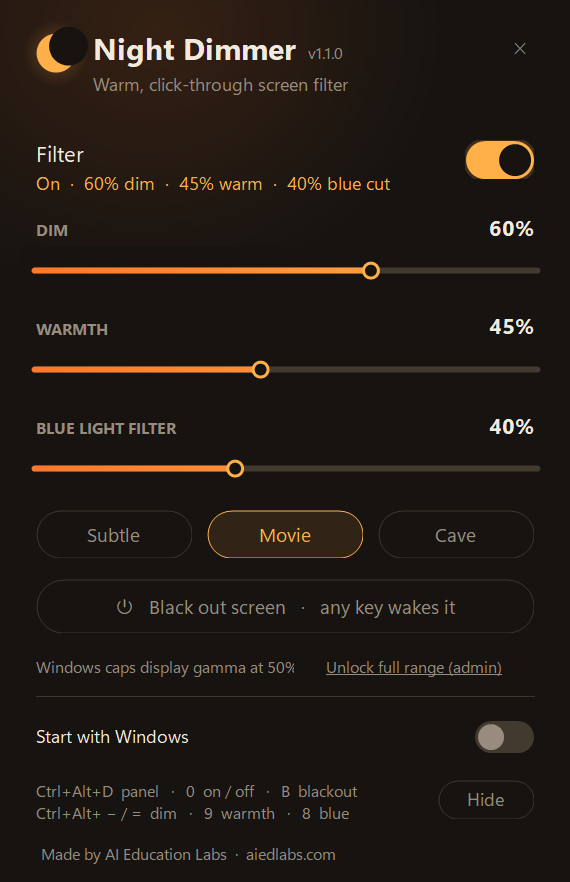
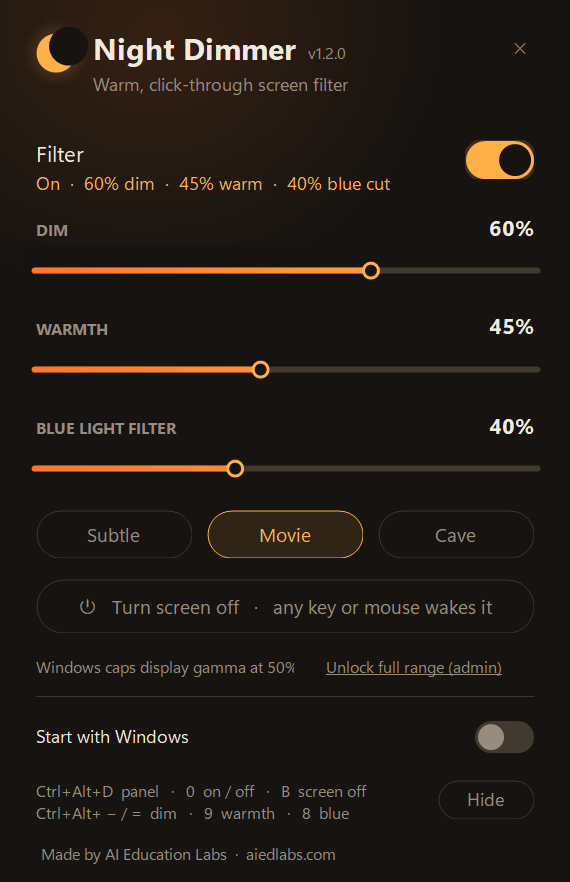
1.2.0: Screen off powers the monitors down (DPMS), any key or mouse wakes
Blackout now sends SC_MONITORPOWER off after the overlay goes black, and
explicitly powers the monitors back on when woken. Adds a low-level mouse
hook so mouse movement lifts the overlay in step with Windows waking the
display; key and mouse-button wakes are swallowed.

Changed region(s): [[0.1491, 0.6735, 0.8649, 0.7041], [0.507, 0.8878, 0.6561, 0.9184], [0.5667, 0.0306, 0.5965, 0.0918]]

diff --git a/NightDimmer.cs b/NightDimmer.cs
@@ -7,7 +7,7 @@
 // ships with Windows.
 //
 // Build:   powershell -ExecutionPolicy Bypass -File build.ps1
-// Hotkeys: Ctrl+Alt+D  panel     Ctrl+Alt+0  on/off     Ctrl+Alt+-/=  darker/brighter   Ctrl+Alt+B  blackout
+// Hotkeys: Ctrl+Alt+D  panel     Ctrl+Alt+0  on/off     Ctrl+Alt+-/=  darker/brighter   Ctrl+Alt+B  screen off
 //          Ctrl+Alt+9  warmth    Ctrl+Alt+8  blue cut   (alternates: PgDn/PgUp/End/Home)
 // CLI:     NightDimmer.exe [--dim N] [--warmth N] [--blue N] [--blackout] [--on] [--off] [--toggle] [--panel] [--exit]
 //          If an instance is already running the command is forwarded to it.
@@ -26,14 +26,14 @@ using Microsoft.Win32;
 [assembly: System.Reflection.AssemblyDescription("Dim and warm your screen for night viewing")]
 [assembly: System.Reflection.AssemblyCompany("AI Education Labs")]
 [assembly: System.Reflection.AssemblyCopyright("Copyright © 2026 AI Education Labs. MIT License.")]
-[assembly: System.Reflection.AssemblyVersion("1.1.0.0")]
-[assembly: System.Reflection.AssemblyFileVersion("1.1.0.0")]
+[assembly: System.Reflection.AssemblyVersion("1.2.0.0")]
+[assembly: System.Reflection.AssemblyFileVersion("1.2.0.0")]
 
 namespace NightDimmer
 {
     static class About
     {
-        public const string Version = "1.1.0";
+        public const string Version = "1.2.0";
         public const string Company = "AI Education Labs";
         public const string Site = "https://aiedlabs.com";
         public const string Repo = "https://github.com/AI-Education-Labs/night-dimmer";
@@ -55,6 +55,7 @@ namespace NightDimmer
         public const int WM_NCLBUTTONDOWN = 0x00A1;
         public const int HTCAPTION = 2;
         public const int WM_APP_CMD = 0x8000 + 1;
+        public const int WM_SYSCOMMAND = 0x0112, SC_MONITORPOWER = 0xF170;
         public const uint MOD_ALT = 0x0001, MOD_CONTROL = 0x0002;
         public const string CTL_TITLE = "NightDimmerCtl";
 
@@ -87,42 +88,60 @@ namespace NightDimmer
     // Commands accepted from the command line / a second instance.
     enum Cmd { Dim = 1, Warmth = 2, Toggle = 3, On = 4, Off = 5, Panel = 6, Exit = 7, Blue = 8, Blackout = 9 }
 
-    // Low-level keyboard hook used only while the screen is blacked out: the first key press
-    // ends the blackout and is swallowed (so e.g. Space doesn't also unpause a video).
-    class KeyWatch : IDisposable
+    // Low-level keyboard + mouse hooks, installed only while the screen is off. The first key
+    // press wakes and is swallowed (so Space doesn't also unpause a video); mouse buttons wake and
+    // are swallowed; mouse movement wakes after a short grace period (Windows itself wakes the
+    // monitor on movement, so the overlay must lift at the same moment).
+    class InputWatch : IDisposable
     {
         delegate IntPtr HookProc(int nCode, IntPtr wParam, IntPtr lParam);
         [DllImport("user32.dll", SetLastError = true)] static extern IntPtr SetWindowsHookEx(int id, HookProc fn, IntPtr hMod, uint tid);
         [DllImport("user32.dll")] static extern bool UnhookWindowsHookEx(IntPtr h);
         [DllImport("user32.dll")] static extern IntPtr CallNextHookEx(IntPtr h, int nCode, IntPtr w, IntPtr l);
         [DllImport("kernel32.dll", CharSet = CharSet.Unicode)] static extern IntPtr GetModuleHandle(string name);
-        const int WH_KEYBOARD_LL = 13, WM_KEYDOWN = 0x100, WM_KEYUP = 0x101, WM_SYSKEYDOWN = 0x104, WM_SYSKEYUP = 0x105;
+        const int WH_KEYBOARD_LL = 13, WH_MOUSE_LL = 14;
+        const int WM_KEYDOWN = 0x100, WM_KEYUP = 0x101, WM_SYSKEYDOWN = 0x104, WM_SYSKEYUP = 0x105;
+        const int WM_MOUSEMOVE = 0x200, WM_LBUTTONDOWN = 0x201, WM_RBUTTONDOWN = 0x204, WM_MBUTTONDOWN = 0x207, WM_XBUTTONDOWN = 0x20B, WM_MOUSEWHEEL = 0x20A;
 
-        readonly HookProc proc; // kept alive: the delegate must not be collected while hooked
-        IntPtr hook;
+        readonly HookProc kbProc, msProc; // kept alive: delegates must not be collected while hooked
+        IntPtr kb, ms;
         bool armed;
         int swallowUpVk = -1;
-        public event Action KeyPressed;
+        DateTime moveArmAt;
+        int lastX = int.MinValue, lastY;
+        public event Action Woken;
 
-        public KeyWatch() { proc = Callback; }
+        public InputWatch() { kbProc = KbCallback; msProc = MsCallback; }
 
-        public bool Start()
+        public bool Start(int mouseGraceMs)
         {
             armed = true;
             swallowUpVk = -1;
-            if (hook != IntPtr.Zero) return true;
-            hook = SetWindowsHookEx(WH_KEYBOARD_LL, proc, GetModuleHandle(null), 0);
-            if (hook == IntPtr.Zero) Log.W("keyboard hook failed: " + Marshal.GetLastWin32Error());
-            return hook != IntPtr.Zero;
+            lastX = int.MinValue;
+            moveArmAt = DateTime.UtcNow.AddMilliseconds(mouseGraceMs);
+            IntPtr mod = GetModuleHandle(null);
+            if (kb == IntPtr.Zero) kb = SetWindowsHookEx(WH_KEYBOARD_LL, kbProc, mod, 0);
+            if (ms == IntPtr.Zero) ms = SetWindowsHookEx(WH_MOUSE_LL, msProc, mod, 0);
+            if (kb == IntPtr.Zero) Log.W("keyboard hook failed: " + Marshal.GetLastWin32Error());
+            if (ms == IntPtr.Zero) Log.W("mouse hook failed: " + Marshal.GetLastWin32Error());
+            return kb != IntPtr.Zero;
         }
 
         public void Stop()
         {
             armed = false;
-            if (hook != IntPtr.Zero) { UnhookWindowsHookEx(hook); hook = IntPtr.Zero; }
+            if (ms != IntPtr.Zero) { UnhookWindowsHookEx(ms); ms = IntPtr.Zero; }
+            if (swallowUpVk < 0 && kb != IntPtr.Zero) { UnhookWindowsHookEx(kb); kb = IntPtr.Zero; }
+            // else: keyboard hook lingers just long enough to eat the matching key-up
         }
 
-        IntPtr Callback(int nCode, IntPtr wParam, IntPtr lParam)
+        void Fire()
+        {
+            armed = false;
+            if (Woken != null) Woken();
+        }
+
+        IntPtr KbCallback(int nCode, IntPtr wParam, IntPtr lParam)
         {
             if (nCode >= 0)
             {
@@ -130,23 +149,48 @@ namespace NightDimmer
                 int vk = Marshal.ReadInt32(lParam); // KBDLLHOOKSTRUCT.vkCode
                 if (armed && (msg == WM_KEYDOWN || msg == WM_SYSKEYDOWN))
                 {
-                    armed = false;
                     swallowUpVk = vk;
-                    if (KeyPressed != null) KeyPressed();
+                    Fire();
                     return new IntPtr(1);
                 }
                 if ((msg == WM_KEYUP || msg == WM_SYSKEYUP) && vk == swallowUpVk)
                 {
                     swallowUpVk = -1;
-                    Stop();                        // matching key-up eaten too, then we're done
+                    if (!armed && kb != IntPtr.Zero) { UnhookWindowsHookEx(kb); kb = IntPtr.Zero; }
                     return new IntPtr(1);
                 }
             }
-            return CallNextHookEx(hook, nCode, wParam, lParam);
+            return CallNextHookEx(kb, nCode, wParam, lParam);
         }
 
-        public void Dispose() { Stop(); }
+        IntPtr MsCallback(int nCode, IntPtr wParam, IntPtr lParam)
+        {
+            if (nCode >= 0 && armed)
+            {
+                int msg = wParam.ToInt32();
+                if (msg == WM_LBUTTONDOWN || msg == WM_RBUTTONDOWN || msg == WM_MBUTTONDOWN || msg == WM_XBUTTONDOWN || msg == WM_MOUSEWHEEL)
+                {
+                    Fire();
+                    return new IntPtr(1);
+                }
+                if (msg == WM_MOUSEMOVE)
+                {
+                    int x = Marshal.ReadInt32(lParam), y = Marshal.ReadInt32(lParam, 4); // MSLLHOOKSTRUCT.pt
+                    if (lastX == int.MinValue) { lastX = x; lastY = y; }
+                    else if (DateTime.UtcNow >= moveArmAt && (Math.Abs(x - lastX) > 3 || Math.Abs(y - lastY) > 3)) Fire();
+                }
+            }
+            return CallNextHookEx(ms, nCode, wParam, lParam);
+        }
+
+        public void Dispose()
+        {
+            armed = false; swallowUpVk = -1;
+            if (ms != IntPtr.Zero) { UnhookWindowsHookEx(ms); ms = IntPtr.Zero; }
+            if (kb != IntPtr.Zero) { UnhookWindowsHookEx(kb); kb = IntPtr.Zero; }
+        }
     }
+
 
     // =====================================================================
     //  Gamma ramps: dim/warm at the display level so shell UI that sits above
@@ -765,12 +809,12 @@ namespace NightDimmer
             }
 
             // full blackout - any key or click wakes the screen
-            Pill black = new Pill(); black.Text = "⏻   Black out screen   ·   any key wakes it";
+            Pill black = new Pill(); black.Text = "⏻   Turn screen off   ·   any key or mouse wakes it";
             black.Font = Theme.Font(9.5f, FontStyle.Regular);
             black.SetBounds(S(P), S(Y_BLACKOUT), S(W - 2 * P), S(36));
             black.Click += delegate { blackoutFn(); };
             Controls.Add(black);
-            tip.SetToolTip(black, "Turns every screen fully black (Ctrl+Alt+B). Press any key or click to wake.");
+            tip.SetToolTip(black, "Powers off every monitor (Ctrl+Alt+B). Any key, click or mouse movement wakes them.");
 
             // shown only while Windows caps gamma at 50%
             unlockLink = new Pill(); unlockLink.Text = "Unlock full range (admin)"; unlockLink.Borderless = true;
@@ -927,7 +971,7 @@ namespace NightDimmer
 
             Txt(g, "Start with Windows", fSub, P, Y_START + 3, Theme.Text);
 
-            Txt(g, "Ctrl+Alt+D  panel   ·   0  on / off   ·   B  blackout", fHint, P, Y_FOOT - 2, Theme.Muted);
+            Txt(g, "Ctrl+Alt+D  panel   ·   0  on / off   ·   B  screen off", fHint, P, Y_FOOT - 2, Theme.Muted);
             Txt(g, "Ctrl+Alt+ − / =  dim   ·   9  warmth   ·   8  blue", fHint, P, Y_FOOT + 13, Theme.Muted);
         }
 
@@ -957,7 +1001,7 @@ namespace NightDimmer
         readonly System.Windows.Forms.Timer topTimer;
         readonly Icon iconOn, iconOff;
         readonly Gamma gamma;
-        readonly KeyWatch keys = new KeyWatch();
+        readonly InputWatch input = new InputWatch();
         bool blackout;
 
         PanelForm panel;
@@ -1002,7 +1046,7 @@ namespace NightDimmer
             hotkeysOk &= Reg(HK_PANEL,    ca, Keys.D);
             hotkeysOk &= Reg(HK_BLUE,     ca, Keys.D8);
             hotkeysOk &= Reg(HK_BLACKOUT, ca, Keys.B);
-            keys.KeyPressed += delegate { EndBlackout(true); };
+            input.Woken += delegate { EndBlackout(); };
 
             SystemEvents.DisplaySettingsChanged += delegate { gamma.Refresh(); BuildOverlays(); };
             SystemEvents.PowerModeChanged += delegate(object o, PowerModeChangedEventArgs e)
@@ -1085,13 +1129,18 @@ namespace NightDimmer
             foreach (Screen sc in Screen.AllScreens)
             {
                 OverlayForm f = new OverlayForm(sc.Bounds);
-                f.Clicked += delegate { EndBlackout(false); };
+                f.Clicked += delegate { EndBlackout(); };
                 overlays.Add(f);
             }
             if (blackout) { blackout = false; StartBlackout(); } else Apply();
         }
 
-        // ---- blackout ---------------------------------------------------------
+        // ---- blackout / screen off ----------------------------------------------
+        //
+        // Overlay goes black immediately (no bright flash, and a fallback where DPMS is not
+        // supported, e.g. Remote Desktop), then the monitors are told to power off. Any key,
+        // mouse button or mouse movement wakes: the hooks lift the overlay and we switch the
+        // monitors back on explicitly, since a swallowed key may not count as wake input.
 
         void StartBlackout()
         {
@@ -1100,23 +1149,34 @@ namespace NightDimmer
             Log.W("blackout on");
             if (panel != null && !panel.IsDisposed) panel.Close();
             foreach (OverlayForm f in overlays) f.SetBlackout(true);
-            if (!keys.Start())
-                tray.ShowBalloonTip(4000, "Night Dimmer", "Couldn't watch the keyboard - click the mouse or press Ctrl+Alt+B to end the blackout.", ToolTipIcon.Warning);
-            tray.Text = "Night Dimmer: screen blacked out - any key wakes it";
+            if (!input.Start(1500))
+                tray.ShowBalloonTip(4000, "Night Dimmer", "Couldn't watch the keyboard - move or click the mouse, or press Ctrl+Alt+B, to wake the screen.", ToolTipIcon.Warning);
+            tray.Text = "Night Dimmer: screen off - any key or mouse wakes it";
+            // Give the click/keystroke that started this a moment to settle, or the display wakes straight back up.
+            System.Windows.Forms.Timer t = new System.Windows.Forms.Timer();
+            t.Interval = 600;
+            t.Tick += delegate { t.Stop(); t.Dispose(); if (blackout) MonitorPower(false); };
+            t.Start();
         }
 
-        // fromKey: the hook ends itself once it has eaten the key-up; otherwise stop it here.
-        void EndBlackout(bool fromKey)
+        void EndBlackout()
         {
-            if (!fromKey) keys.Stop();
+            input.Stop();
             if (!blackout) return;
             blackout = false;
             Log.W("blackout off");
+            MonitorPower(true);
             foreach (OverlayForm f in overlays) f.SetBlackout(false);
             Apply();
         }
 
-        void ToggleBlackout() { if (blackout) EndBlackout(false); else StartBlackout(); }
+        void ToggleBlackout() { if (blackout) EndBlackout(); else StartBlackout(); }
+
+        void MonitorPower(bool on)
+        {
+            // WM_SYSCOMMAND / SC_MONITORPOWER handled by DefWindowProc of any window we own.
+            Native.SendMessage(hk.Handle, Native.WM_SYSCOMMAND, new IntPtr(Native.SC_MONITORPOWER), new IntPtr(on ? -1 : 2));
+        }
 
         static Color TintFor(int warmth)
         {
@@ -1174,7 +1234,7 @@ namespace NightDimmer
         void OnHotkey(int id)
         {
             if (id > HK_ALT) id -= HK_ALT;
-            if (blackout && id != HK_BLACKOUT) { EndBlackout(false); return; } // any hotkey wakes, nothing more
+            if (blackout && id != HK_BLACKOUT) { EndBlackout(); return; } // any hotkey wakes, nothing more
             switch (id)
             {
                 case HK_BLACKOUT: ToggleBlackout(); return;
@@ -1297,7 +1357,7 @@ namespace NightDimmer
         {
             Log.W("exit");
             topTimer.Stop();
-            keys.Dispose();
+            input.Dispose();
             gamma.Restore();
             if (panel != null && !panel.IsDisposed) panel.Close();
             foreach (OverlayForm f in overlays) f.Close();

diff --git a/README.md b/README.md
@@ -13,7 +13,7 @@
 
 Ever watched something at night and found your monitor's *lowest* brightness still too bright?
 Night Dimmer goes darker than the hardware allows, adds an amber tone, cuts blue light, and can
-black the screen out entirely until you touch a key — with a dark control panel, global hotkeys,
+switch your monitors off entirely until you touch a key or the mouse — with a dark control panel, global hotkeys,
 and presets. It's a single 1,000-line C# file with no
 dependencies, and it compiles on your own PC in about two seconds.
 
@@ -43,12 +43,12 @@ files. Or just run `build.ps1` and use the exe where it lands.
 | Darker / brighter, 5% steps | **Ctrl+Alt+-** / **Ctrl+Alt+=** |
 | Cycle warmth | **Ctrl+Alt+9** |
 | Cycle blue-light filter | **Ctrl+Alt+8** |
-| **Black out the screen** | **Ctrl+Alt+B** or the panel button — *any key or click wakes it* (the key is swallowed, so Space won't unpause your video) |
+| **Screen off** | **Ctrl+Alt+B** or the panel button — powers your monitors off (real DPMS off, with a black overlay underneath as a fallback). *Any key, click or mouse movement wakes them*; the waking key is swallowed, so Space won't unpause your video |
 | Quit | the **✕** in the panel's corner |
 
 Alternate bindings if another app owns those: Ctrl+Alt+**PgDn / PgUp / End / Home**.
 
-**Sliders.** *Dim* lowers brightness (0–90%; the dimmer itself never fully blacks out — that is what Blackout is for). *Warmth* shifts
+**Sliders.** *Dim* lowers brightness (0–90%; the dimmer itself never fully blacks out — that is what Screen off is for). *Warmth* shifts
 the tone amber, like Night Light. *Blue light filter* cuts only the blue channel.
 **Presets:** Subtle 30/20/20 · Movie 60/45/40 · Cave 85/65/60.
 
